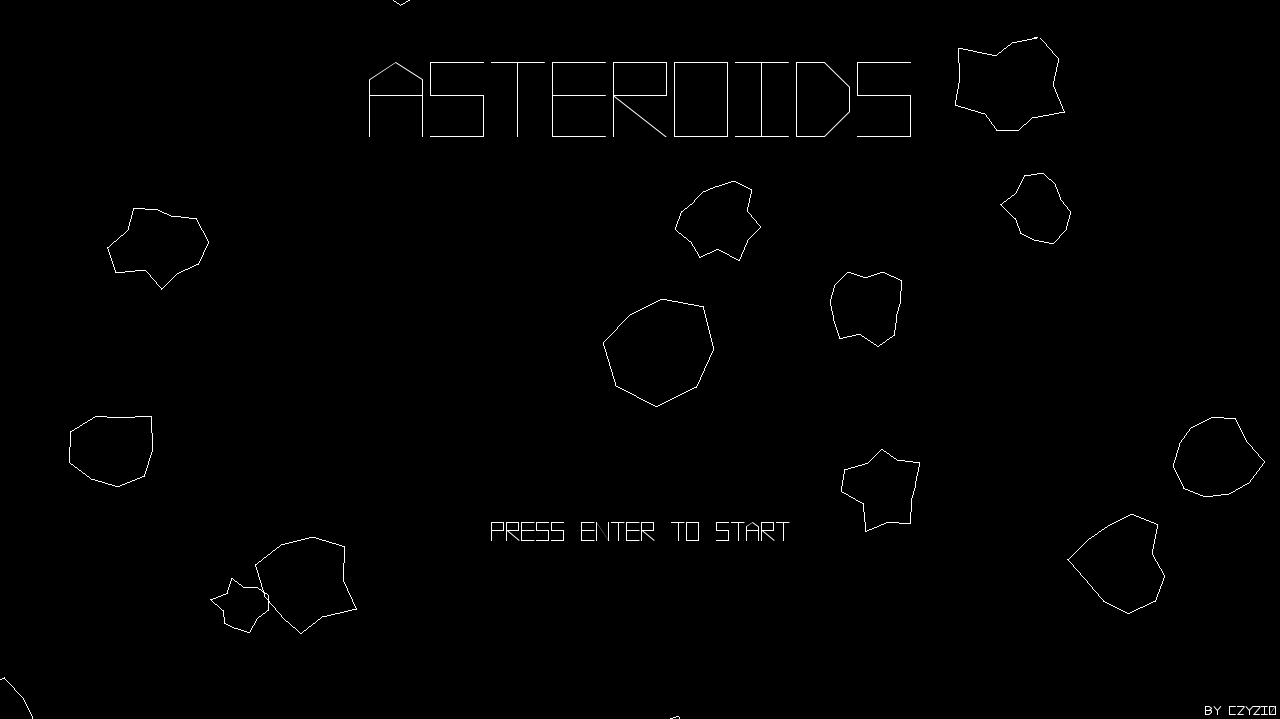
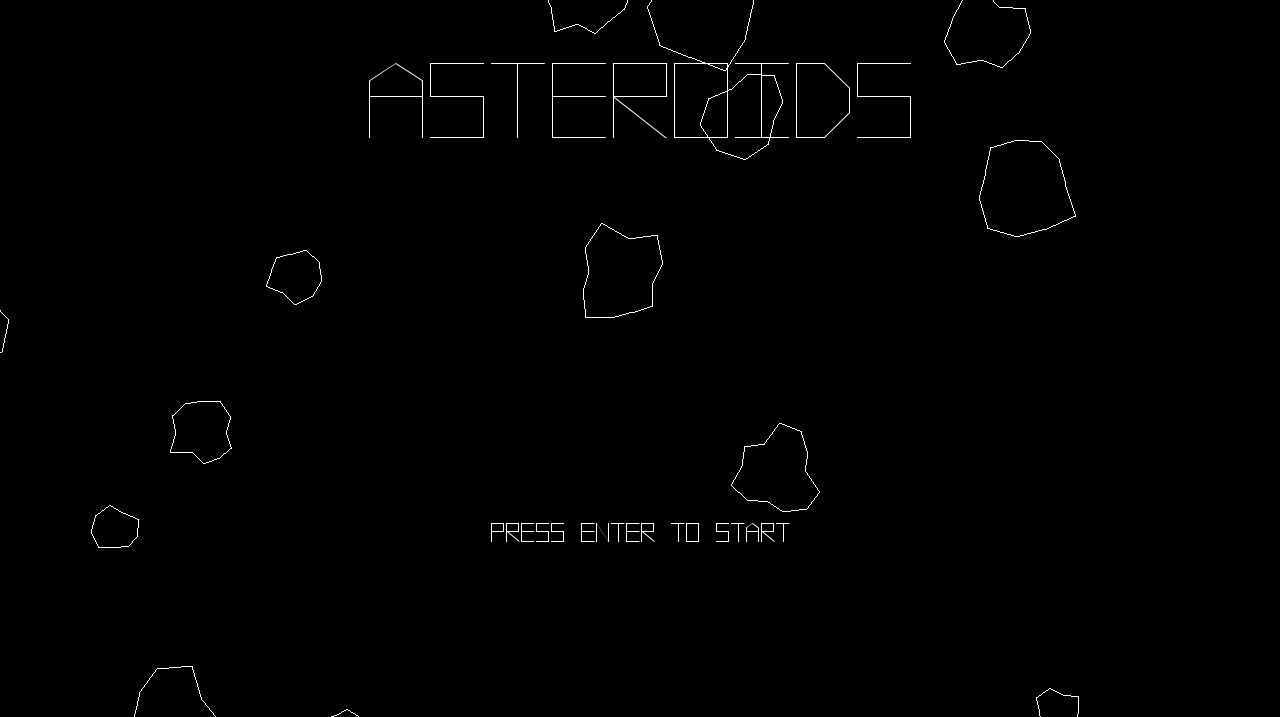
Update README.md. Remove author text from title screen. Update screenshots

diff --git a/asteroids/scenes/title_scene.py b/asteroids/scenes/title_scene.py
@@ -17,8 +17,6 @@ class TitleScene(BaseScene):
         self.title_text = Text('CENTER', 50, 'ASTEROIDS', assets.get_font('vector_battle.ttf', 80))
         self.menu_text = Text(
             'CENTER', config.HEIGHT - 200, 'press ENTER to start', assets.get_font('vector_battle.ttf', 20))
-        self.author_text = Text(
-            config.WIDTH - 75, config.HEIGHT - 15, 'by czyzi0', assets.get_font('vector_battle.ttf', 10))
         # Entities
         self.asteroids = [
             Asteroid(
@@ -48,4 +46,3 @@ class TitleScene(BaseScene):
         # Widgets
         self.title_text.display(screen)
         self.menu_text.display(screen)
-        self.author_text.display(screen)

diff --git a/README.md b/README.md
@@ -27,6 +27,3 @@ Use `arrows` to move ship and `space` to shoot. You can pause the game with `P` 
 ## Screenshots
 ![Title screen](screenshots/title_screen.png)
 ![Game screen](screenshots/game_screen.png)
-
----
-###### by czyzi0
